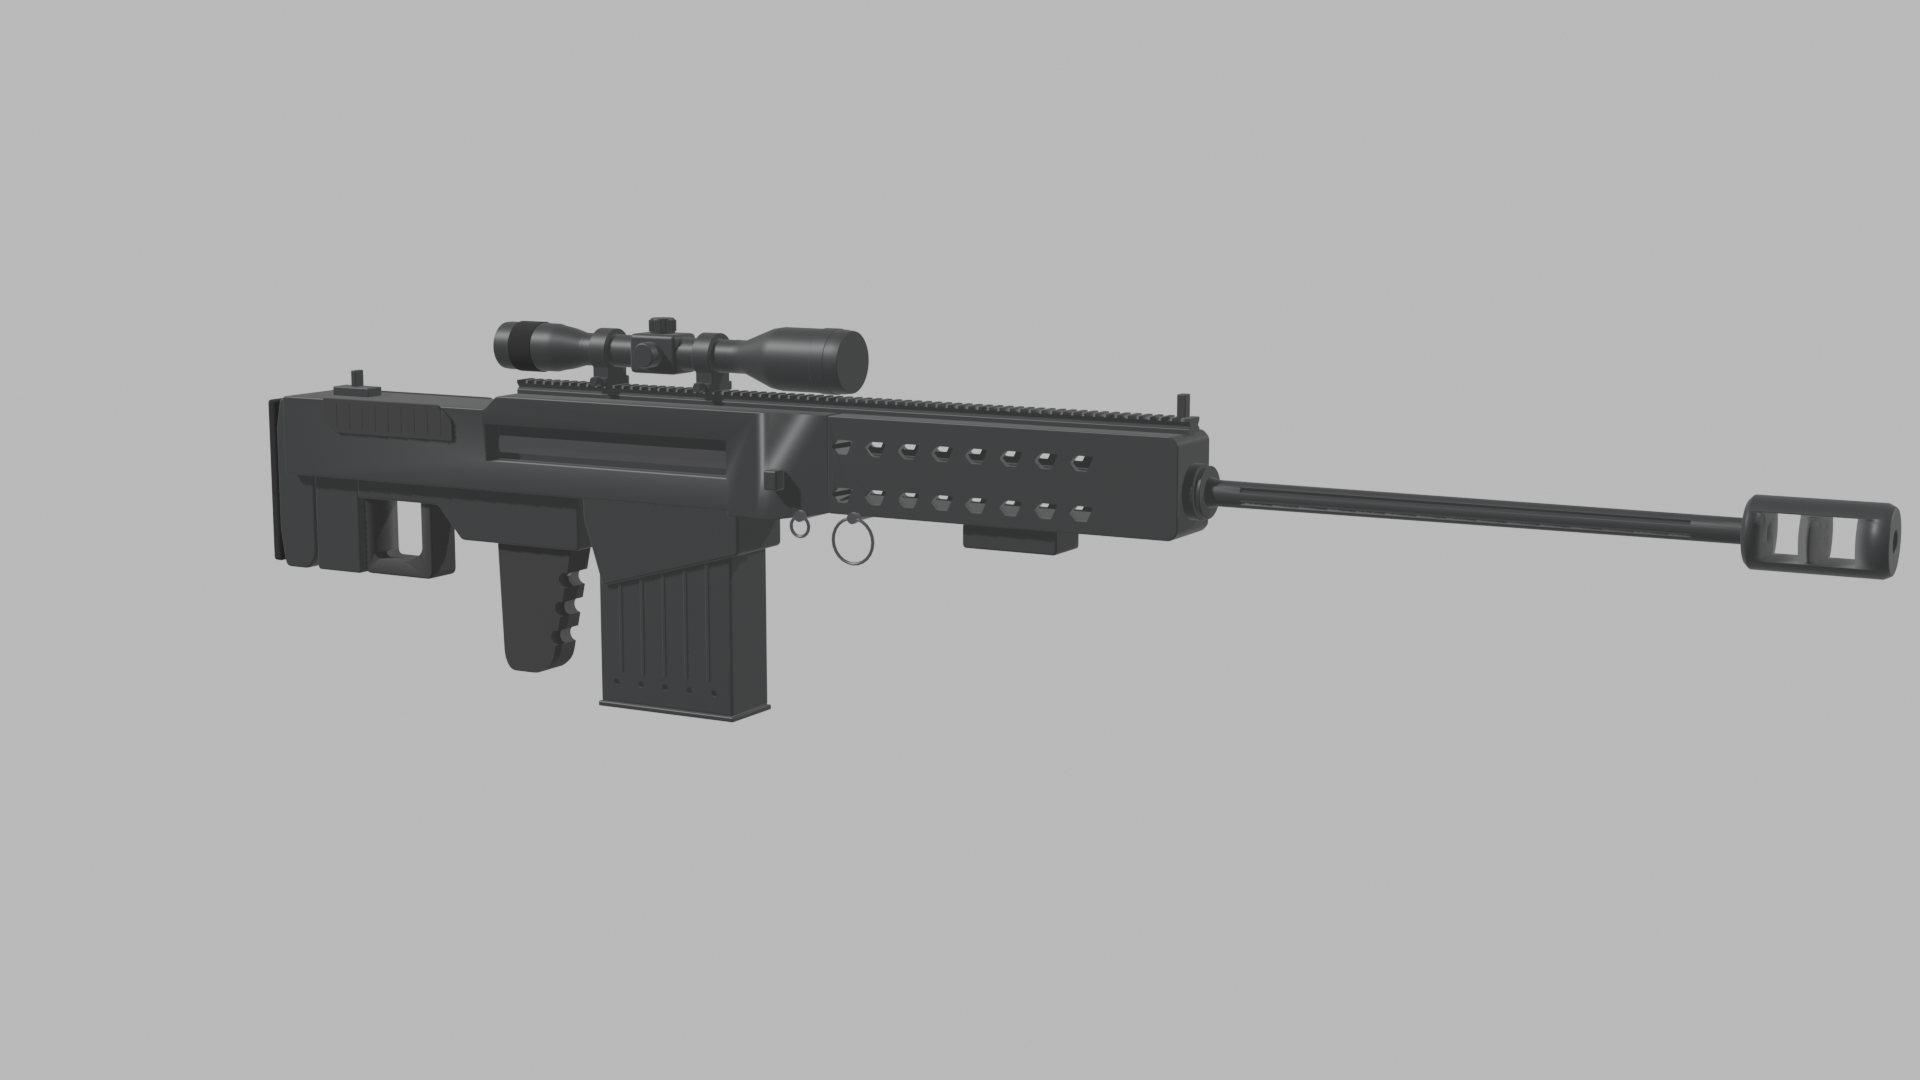
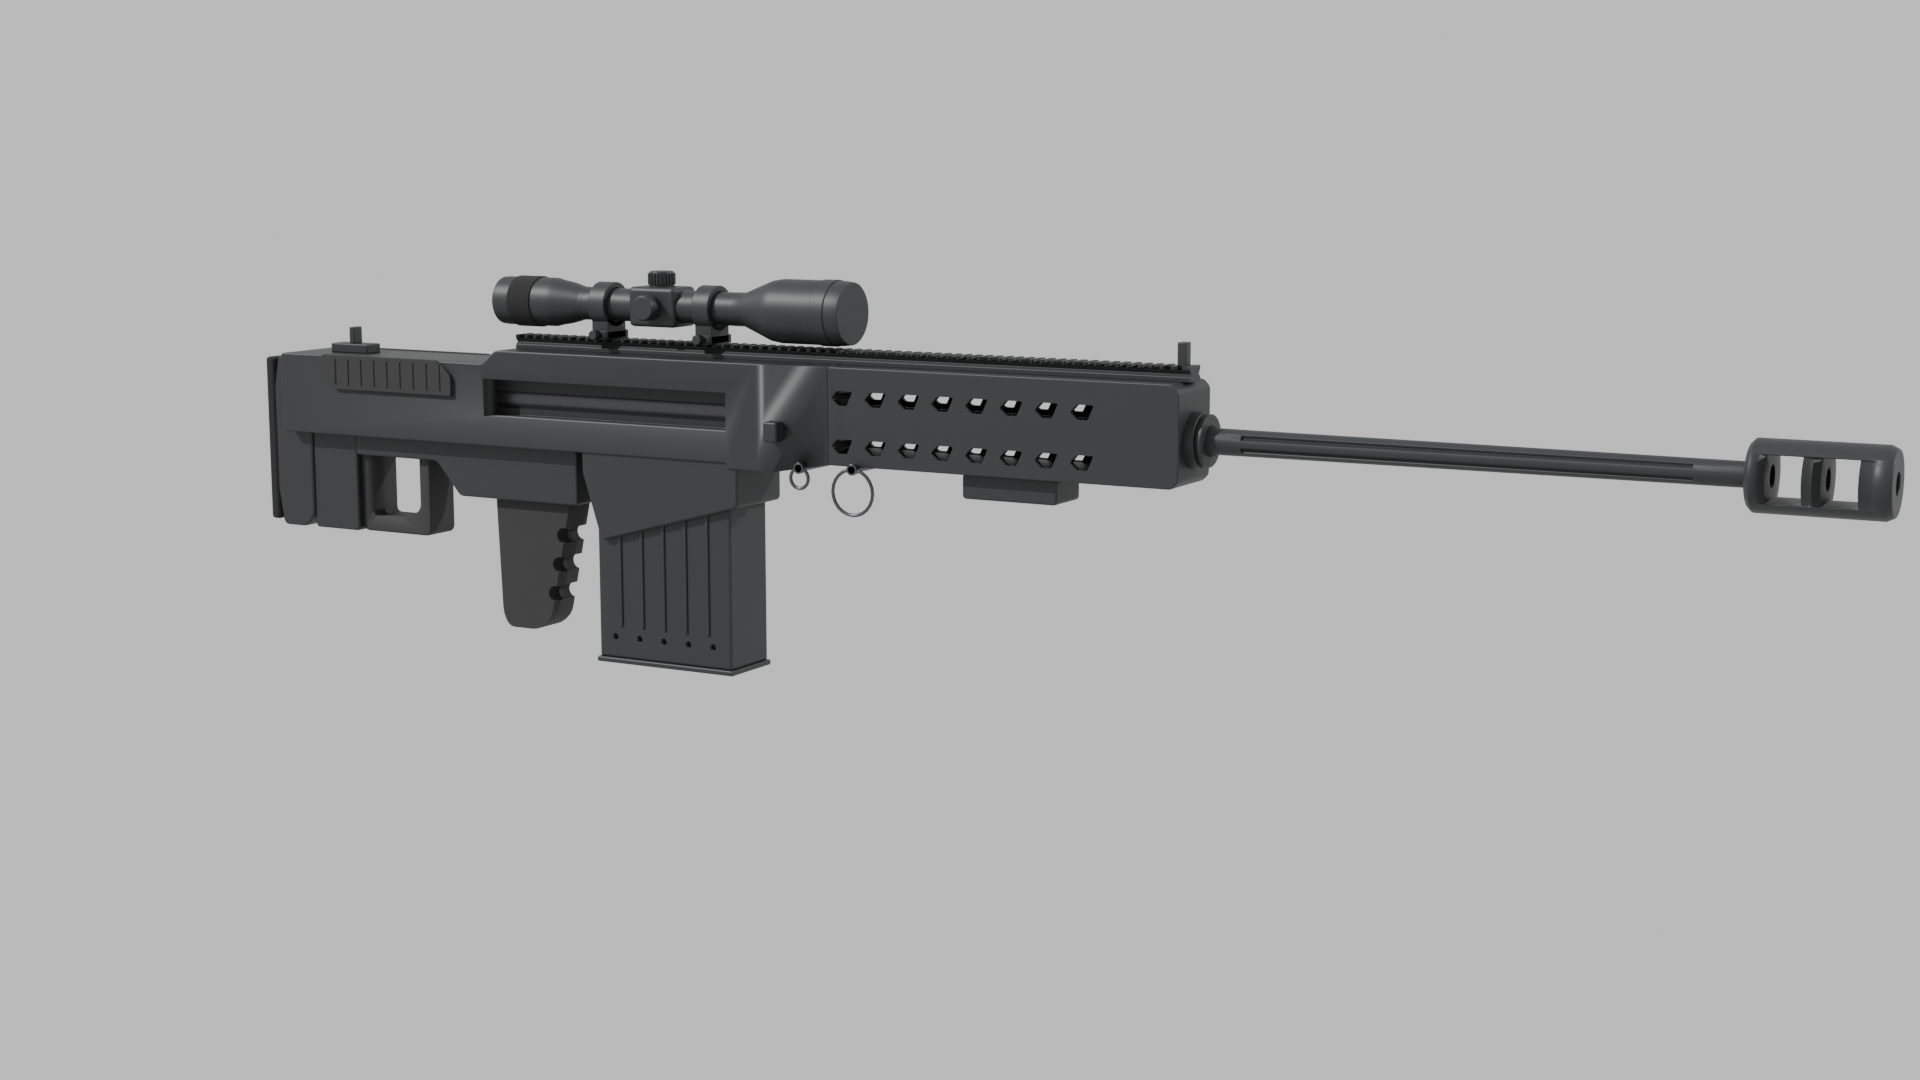
AF M107A1: SVD frame measured in game, model placed in it and split into rifle, magazine and scope; ray-traced previews

Changed region(s): [[0.125, 0.2444, 1.0, 0.6722]]

diff --git a/blender/afm107_detailed.py b/blender/afm107_detailed.py
@@ -35,14 +35,18 @@ bp = importlib.util.module_from_spec(spec)
 spec.loader.exec_module(bp)
 
 PREFIX = "M107_"
-BORE = 0.100
 P = bp.PARTS
 fx = bp.fx
-X_TRIGGER = P["trigger"][0][0]
+# The vanilla SVD's frame (measured in game, docs/M107.md): the M107A1's trigger pivot sits on the
+# SVD's trigger_axis, so the SVD's hand animations close on its grip.
+SVD_TRIGGER = (-0.0819, 0.0645)                     # working y, z of the SVD's trigger_axis
+X_TRIGGER = (P["trigger"][0][0] + P["trigger"][1][0]) / 2     # blueprint x of the trigger pivot (its top)
+Z_TRIGGER = P["trigger"][0][1]                       # blueprint z of the pivot (mm below the bore)
+BORE = SVD_TRIGGER[1] - Z_TRIGGER / 1000.0           # 0.1525: 52 mm above the SVD's bore
 
 
 def Y(x_mm):
-    return (x_mm - X_TRIGGER) / 1000.0
+    return (x_mm - X_TRIGGER) / 1000.0 + SVD_TRIGGER[0]
 
 
 def Zm(z_mm):
@@ -86,19 +90,50 @@ def ring(bm, centre, radius, tube, seg=24, sides=8):
             bm.faces.new((a[j], a[(j + 1) % sides], b[(j + 1) % sides], b[j]))
 
 
+MAG_PREFIX, SCOPE_PREFIX = "M107M_", "M107S_"
+# The magazine model's origin is the SVD's magazine proxy point, so the SVD's reload animations hold
+# it where they expect; the scope model's origin is the middle of its tube.
+MAG_PROXY = (0.0, 0.0542, 0.0409)
+
+
+def materials():
+    return {"steel": d.material("Cerakote", (0.028, 0.029, 0.030), rough=0.50, metal=0.25, bump=0.02, bump_scale=900),
+            "bare": d.material("Steel", (0.10, 0.10, 0.105), rough=0.30, metal=0.9),
+            "dark": d.material("Inside", (0.006, 0.006, 0.007), rough=0.7),
+            "rubber": d.material("Rubber", (0.010, 0.010, 0.010), rough=0.92),
+            "poly": d.material("Polymer", (0.020, 0.020, 0.021), rough=0.75, bump=0.06, bump_scale=1400)}
+
+
+def smooth(cols):
+    """Clean shading on the big faces left by the Boolean cuts: area-weighted normals, edges kept sharp."""
+    for col in cols:
+        for ob in col.objects:
+            if ob.type == "MESH":
+                for face in ob.data.polygons:
+                    face.use_smooth = True
+                mod = ob.modifiers.new("WeightedNormal", "WEIGHTED_NORMAL")
+                mod.mode = "FACE_AREA"
+                mod.weight = 50
+                mod.keep_sharp = True
+
+
+def offset(col, v):
+    for ob in col.objects:
+        ob.location = (ob.location[0] - v[0], ob.location[1] - v[1], ob.location[2] - v[2])
+
+
 def build():
-    for ob in list(bpy.data.objects):
-        bpy.data.objects.remove(ob, do_unlink=True)
+    """The rifle (prefix M107_): everything but the magazine and the scope, which are models of their own."""
     d.PREFIX = PREFIX
     d.clean()
     d.CUTS = True
     body = d.collection("Body")
+    moving = d.collection("Moving")
+    memory = d.collection("Memory")
+    proxies = d.collection("Proxies")
     cutters = d.collection("Cutters")
-    steel = d.material("Cerakote", (0.028, 0.029, 0.030), rough=0.50, metal=0.25, bump=0.02, bump_scale=900)
-    bare = d.material("Steel", (0.10, 0.10, 0.105), rough=0.30, metal=0.9)
-    dark = d.material("Inside", (0.006, 0.006, 0.007), rough=0.7)
-    rubber = d.material("Rubber", (0.010, 0.010, 0.010), rough=0.92)
-    poly = d.material("Polymer", (0.020, 0.020, 0.021), rough=0.75, bump=0.06, bump_scale=1400)
+    m = materials()
+    steel, bare, dark, rubber, poly = m["steel"], m["bare"], m["dark"], m["rubber"], m["poly"]
 
     # --- Upper receiver ----------------------------------------------------------------------
     up = d.profile("UpperReceiver", body, steel, side_pts(P["upper"]), 0.076, bevel=0.0018, round=0.004,
@@ -136,7 +171,7 @@ def build():
     c = d.box("WindowCutter", cutters, None, (0.030, (Y(wx0) + Y(wx1)) / 2, (Zm(wz0) + Zm(wz1)) / 2),
               (0.030, Y(wx1) - Y(wx0), Zm(wz1) - Zm(wz0)), bevel=0, note="Ejection window, right.")
     d.cut(up, c, "Window")
-    lathe("BoltCarrier", body, bare, [(wx0 - 20, 0), (wx0 - 20, 17), (wx1 + 20, 17), (wx1 + 20, 0)], sides=24, bevel=0.0006,
+    lathe("BoltCarrier", moving, bare, [(wx0 - 20, 0), (wx0 - 20, 17), (wx1 + 20, 17), (wx1 + 20, 0)], sides=24, bevel=0.0006,
           note="Bolt carrier, seen through the window.")
     # Rail: M1913 section along the top, cross slots every 10 mm.
     rx0, rx1, rz0, rz1 = P["rail"]
@@ -166,8 +201,6 @@ def build():
     d.box("RearSightAperture", body, steel, (0.0, Y(78), Zm(52)), (0.012, 0.006, 0.016), bevel=0.0008)
     d.box("FrontSight", body, steel, (0.0, Y(fx(880.0)), Zm(70)), (0.010, 0.008, 0.020), bevel=0.0008,
           note="Folding front sight, raised.")
-
-    build_scope(body, steel, dark, rubber)
 
     # --- Barrel and brake -----------------------------------------------------------------------
     cx0, cx1, _, _ = P["barrel_collar"]
@@ -215,11 +248,50 @@ def build():
         xf = gx1 - 8 - (gz1 - zz) * 0.20
         d.bm_lathe(bm, [(-0.03, 0.0), (-0.03, 0.0075), (0.03, 0.0075), (0.03, 0.0)], sides=16, axis="X", c=(Y(xf + 6), Zm(zz)))
     d.cut(grip, d.make("GripGrooveCutter", bm, cutters, None, "", 0.0), "Grooves")
-    d.profile("Trigger", body, bare, side_pts(P["trigger"]), 0.006, bevel=0.0010, round=0.002)
+    d.profile("Weapon_Trigger", moving, bare, side_pts(P["trigger"]), 0.006, bevel=0.0010, round=0.002,
+              note="Trigger. Bone 'trigger'.")
     d.box("Safety", body, steel, (-0.026, Y(fx(300.0)), Zm(-55)), (0.004, 0.020, 0.008), bevel=0.0008, note="Safety, left.")
     d.box("ChargingHandle", body, steel, (0.044, Y(fx(520.0)), Zm(-10)), (0.014, 0.014, 0.018), bevel=0.0020,
           note="Charging handle, right.")
 
+    # --- Monopod, bipod, lock pins ------------------------------------------------------------------
+    # (Monopod under the stock removed, owner 2026-11-23.)
+    d.profile("BipodYoke", body, steel, side_pts(P["bipod_yoke"]), 0.044, bevel=0.0018, round=0.004)
+    # (Folded bipod legs under the barrel removed, owner 2026-11-23.)
+    bm = bmesh.new()
+    for x, z, r in (bp.MID_PIN, bp.REAR_PIN):
+        ring(bm, (0.040, Y(x), Zm(z)), r / 1000.0, 0.0016)
+        d.bm_lathe(bm, [(-0.040, 0.0), (-0.040, 0.0035), (0.042, 0.0035), (0.042, 0.0)], sides=12, axis="X", c=(Y(x), Zm(z + r)))
+        d.bm_lathe(bm, [(0.037, 0.0), (0.037, 0.0050), (0.042, 0.0050), (0.042, 0.0)], sides=12, axis="X", c=(Y(x), Zm(z + r)))
+    d.make("LockPins", bm, body, bare, "Mid and rear lock pins with their pull rings.", 0.0)
+    smooth((body, moving))
+
+    # --- Memory points (SVD names) and proxies ---------------------------------------------------
+    sx0 = fx(SCOPE_X0)
+    d.empty("Mem_Muzzle", memory, (0.0, Y(fx(1443.0)), BORE), "'usti hlavne' - muzzle (front of the brake).")
+    d.empty("Mem_BarrelEnd", memory, (0.0, Y(fx(905.0)), BORE), "'konec hlavne' - with the muzzle, the firing line.")
+    d.empty("Mem_Eye", memory, (0.0, Y(40.0), Zm(60.0)), "'eye' - iron sights, behind the rear sight.")
+    d.empty("Mem_CaseStart", memory, (0.020, Y(fx(400.0)), BORE), "'nabojnicestart' - cases leave the window...")
+    d.empty("Mem_CaseEnd", memory, (0.120, Y(fx(380.0)), BORE + 0.030), "'nabojniceend' - ...to the right.")
+    d.empty("Mem_TriggerAxis", memory, (0.0, SVD_TRIGGER[0], SVD_TRIGGER[1]), "'trigger_axis' - trigger pivot.")
+    d.empty("Mem_BoltAxis", memory, (0.0, Y(fx(400.0)), BORE), "'bolt_axis'.")
+    d.empty("Mem_MagAxis", memory, (0.0, 0.0965, 0.1052), "'magazine_axis' - the SVD's, for its reload.")
+    d.empty("Mem_MagAxis2", memory, (0.0, 0.0902, 0.0319), "'magazine_axis2'.")
+    d.empty("Proxy_Magazine", proxies, MAG_PROXY, "magazine proxy: the AF M107A1 magazine's origin.", kind="ARROWS",
+            size=0.03)
+    d.empty("Proxy_Scope", proxies, SCOPE_CENTRE(), "scope proxy (slot weaponOpticsAFM107): the scope's origin.",
+            kind="ARROWS", size=0.03)
+
+
+def build_magazine():
+    """The magazine (prefix M107M_), built round the SVD's magazine proxy point."""
+    d.PREFIX = MAG_PREFIX
+    d.clean()
+    d.CUTS = True
+    body = d.collection("Body")
+    d.collection("Moving")
+    cutters = d.collection("Cutters")
+    steel = materials()["steel"]
     # --- Magazine ---------------------------------------------------------------------------------
     mx0, mx1, mz0, mz1 = P["mag"]
     mag = d.box("Magazine", body, steel, (0.0, (Y(mx0) + Y(mx1)) / 2, (Zm(mz0) + Zm(mz1)) / 2),
@@ -237,25 +309,26 @@ def build():
     d.box("MagFloorPlate", body, steel, (0.0, (Y(mx0) + Y(mx1)) / 2, Zm(mz0) - 0.002), (0.064, Y(mx1) - Y(mx0) + 0.004, 0.005),
           bevel=0.0012)
 
-    # --- Monopod, bipod, lock pins ------------------------------------------------------------------
-    # (Monopod under the stock removed, owner 2026-11-23.)
-    d.profile("BipodYoke", body, steel, side_pts(P["bipod_yoke"]), 0.044, bevel=0.0018, round=0.004)
-    # (Folded bipod legs under the barrel removed, owner 2026-11-23.)
-    bm = bmesh.new()
-    for x, z, r in (bp.MID_PIN, bp.REAR_PIN):
-        ring(bm, (0.040, Y(x), Zm(z)), r / 1000.0, 0.0016)
-        d.bm_lathe(bm, [(-0.040, 0.0), (-0.040, 0.0035), (0.042, 0.0035), (0.042, 0.0)], sides=12, axis="X", c=(Y(x), Zm(z + r)))
-        d.bm_lathe(bm, [(0.037, 0.0), (0.037, 0.0050), (0.042, 0.0050), (0.042, 0.0)], sides=12, axis="X", c=(Y(x), Zm(z + r)))
-    d.make("LockPins", bm, body, bare, "Mid and rear lock pins with their pull rings.", 0.0)
-    # Clean shading on the big faces left by the Boolean cuts: area-weighted normals, edges kept sharp.
-    for ob in body.objects:
-        if ob.type == "MESH":
-            for poly in ob.data.polygons:
-                poly.use_smooth = True
-            mod = ob.modifiers.new("WeightedNormal", "WEIGHTED_NORMAL")
-            mod.mode = "FACE_AREA"
-            mod.weight = 50
-            mod.keep_sharp = True
+    smooth((body,))
+    offset(body, MAG_PROXY)
+
+
+def SCOPE_CENTRE():
+    return (0.0, Y(fx(SCOPE_X0 + 190.0)), Zm(SCOPE_AXIS))
+
+
+def build_scope_model():
+    """The built-in scope (prefix M107S_), built round the middle of its tube."""
+    d.PREFIX = SCOPE_PREFIX
+    d.clean()
+    d.CUTS = True
+    body = d.collection("Body")
+    d.collection("Moving")
+    d.collection("Memory")
+    m = materials()
+    build_scope(body, m["steel"], m["dark"], m["rubber"])
+    smooth((body,))
+    offset(body, SCOPE_CENTRE())
 
 
 # --- Built-in scope (owner: "a built in hunting scope, 6x - 12x, red crosshair, meter counter") ----
@@ -319,8 +392,12 @@ def build_scope(body, steel, dark, rubber):
 
 def render(out):
     sc = bpy.context.scene
-    names = {e.identifier for e in bpy.types.RenderSettings.bl_rna.properties["engine"].enum_items}
-    sc.render.engine = "BLENDER_EEVEE_NEXT" if "BLENDER_EEVEE_NEXT" in names else "BLENDER_EEVEE"
+    # Ray traced (Cycles), owner 2026-11-23: real reflections, shadows and occlusion in the previews.
+    sc.render.engine = "CYCLES"
+    sc.cycles.device = "CPU"
+    sc.cycles.samples = 96
+    sc.cycles.use_denoising = True
+    sc.cycles.max_bounces = 6
     sc.render.resolution_x, sc.render.resolution_y = 1920, 1080
     world = bpy.data.worlds.new("M107_World")
     world.use_nodes = True
@@ -335,7 +412,8 @@ def render(out):
     cam = bpy.data.objects.new("M107_Cam", bpy.data.cameras.new("M107_Cam"))
     sc.collection.objects.link(cam)
     sc.camera = cam
-    obs = [o for o in bpy.data.objects if o.type == "MESH" and o.name.startswith(PREFIX) and not o.hide_render]
+    obs = [o for o in bpy.data.objects if o.type == "MESH" and o.name.startswith(("M107_", "M107M_", "M107S_"))
+           and not o.hide_render and not any(c.name.endswith("Cutters") for c in o.users_collection)]
     lo = Vector((1e9,) * 3)
     hi = Vector((-1e9,) * 3)
     for o in obs:
@@ -365,8 +443,26 @@ def render(out):
         print("RENDERED", sc.render.filepath)
 
 
+def build_all():
+    for ob in list(bpy.data.objects):            # the factory scene's cube, camera and light
+        bpy.data.objects.remove(ob, do_unlink=True)
+    build()
+    build_magazine()
+    build_scope_model()
+
+
+def assemble(on=True):
+    """Previews: the magazine and scope moved onto their proxies (on=False puts them back)."""
+    k = 1 if on else -1
+    for prefix, at in ((MAG_PREFIX, MAG_PROXY), (SCOPE_PREFIX, SCOPE_CENTRE())):
+        col = bpy.data.collections.get(prefix + "Body")
+        for ob in col.objects:
+            ob.location = tuple(ob.location[i] + k * at[i] for i in range(3))
+
+
 if __name__ == "__main__":
     args = sys.argv[sys.argv.index("--") + 1:] if "--" in sys.argv else []
-    build()
+    build_all()
     bpy.ops.wm.save_as_mainfile(filepath=os.path.join(HERE, "afm107_detailed.blend"))
+    assemble(True)
     render(args[0] if args else os.path.join(os.path.dirname(HERE), "docs", "img"))

diff --git a/test/AFSVDProbe.ChernarusPlus/init.c b/test/AFSVDProbe.ChernarusPlus/init.c
@@ -1,0 +1,109 @@
+// Probe mission: reads the vanilla SVD's frame from the running game, for the AF M107A1 (which
+// inherits the SVD). Uses only the public script API on a spawned SVD; nothing is extracted from
+// the game files. Logs, in the SVD's model space (metres):
+//   - its memory points (muzzle, barrel end, eye, case ejection);
+//   - where its magazine and PSO-1 scope sit (position and axes of each attachment);
+//   - where the player's hands hold it, at rest and raised (aimed).
+// Then quits. Start it with: test\run_test.ps1 -Mission AFSVDProbe.ChernarusPlus
+
+PlayerBase g_P;
+Weapon_Base g_W;
+
+string V(vector v)
+{
+	return string.Format("%1 %2 %3", v[0].ToString(), v[1].ToString(), v[2].ToString());
+}
+
+void LogFrame(string tag)
+{
+	if (!g_W)
+	{
+		Print("[AFProbe] FAILED no weapon");
+		return;
+	}
+	TStringArray mem = {"usti hlavne", "konec hlavne", "eye", "nabojnicestart", "nabojniceend", "bolt_axis", "trigger_axis", "magazine_axis", "magazine_axis2"};
+	foreach (string m : mem)
+	{
+		if (g_W.MemoryPointExists(m))
+			Print("[AFProbe] " + tag + " mem " + m + " = " + V(g_W.GetMemoryPointPos(m)));
+		else
+			Print("[AFProbe] " + tag + " mem " + m + " MISSING");
+	}
+	for (int i = 0; i < g_W.GetInventory().AttachmentCount(); i++)
+	{
+		EntityAI a = g_W.GetInventory().GetAttachmentFromIndex(i);
+		vector o = g_W.WorldToModel(a.GetPosition());
+		vector fwd = g_W.WorldToModel(a.ModelToWorld("0 0 1")) - o;
+		vector up = g_W.WorldToModel(a.ModelToWorld("0 1 0")) - o;
+		Print("[AFProbe] " + tag + " attachment " + a.GetType() + " at " + V(o) + " dir " + V(fwd) + " up " + V(up));
+	}
+	if (g_P)
+	{
+		TStringArray hb = {"RightHand", "LeftHand", "RightHandIndex1", "LeftHandIndex1", "Head", "Spine3"};
+		foreach (string h : hb)
+		{
+			int hi = g_P.GetBoneIndexByName(h);
+			if (hi >= 0)
+				Print("[AFProbe] " + tag + " hand " + h + " = " + V(g_W.WorldToModel(g_P.GetBonePositionWS(hi))));
+		}
+	}
+	vector box[2];
+	g_W.GetCollisionBox(box);
+	Print("[AFProbe] " + tag + " collision box " + V(box[0]) + " .. " + V(box[1]));
+}
+
+void main()
+{
+	GetGame().GetWorld().SetDate(2026, 6, 15, 12, 0);
+	vector stand = "4660 0 10330";
+	stand[1] = GetGame().SurfaceY(stand[0], stand[2]);
+	g_P = PlayerBase.Cast(GetGame().CreatePlayer(NULL, "SurvivorM_Mirek", stand, 0, "NONE"));
+	GetGame().SelectPlayer(NULL, g_P);
+	g_P.GetInventory().CreateInInventory("TShirt_Green");
+	g_W = Weapon_Base.Cast(g_P.GetHumanInventory().CreateInHands("SVD"));
+	if (g_W)
+	{
+		g_W.SpawnAmmo("Mag_SVD_10Rnd", WeaponWithAmmoFlags.CHAMBER | WeaponWithAmmoFlags.MAX_CAPACITY_MAG);
+		g_W.GetInventory().CreateAttachment("PSO1Optic");
+	}
+	Print("[AFProbe] spawned SVD " + (g_W != null).ToString());
+}
+
+class CustomMission: MissionGameplay
+{
+	override void OnInit()
+	{
+		super.OnInit();
+		GetGame().GetCallQueue(CALL_CATEGORY_SYSTEM).CallLater(this.AFRest, 15000, false);
+		GetGame().GetCallQueue(CALL_CATEGORY_SYSTEM).CallLater(this.AFRaise, 18000, false);
+		GetGame().GetCallQueue(CALL_CATEGORY_SYSTEM).CallLater(this.AFRaised, 22000, false);
+		GetGame().GetCallQueue(CALL_CATEGORY_SYSTEM).CallLater(this.AFQuit, 24000, false);
+	}
+
+	void AFRest()
+	{
+		LogFrame("rest");
+	}
+
+	void AFRaise()
+	{
+		g_P.GetInputController().OverrideRaise(HumanInputControllerOverrideType.ENABLED, true);
+		Print("[AFProbe] raising");
+	}
+
+	void AFRaised()
+	{
+		LogFrame("raised");
+	}
+
+	void AFQuit()
+	{
+		Print("[AFProbe] done");
+		GetGame().RequestExit(0);
+	}
+};
+
+Mission CreateCustomMission(string path)
+{
+	return new CustomMission();
+}

diff --git a/docs/M107.md b/docs/M107.md
@@ -57,3 +57,26 @@ Construction, from the manual's parts list and assembly steps:
   - specular and gloss spread checked against a vanilla rifle;
   - edge padding;
   - an in-game lighting series.
+
+## The vanilla SVD's frame (measured in game, 2026-11-23)
+
+The M107A1 inherits the SVD's animations, so it is built in the SVD's frame. Read by the probe mission `test/AFSVDProbe.ChernarusPlus` through the public script API (memory points, attachment transforms, the player's hand bones); the bone list comes from the model's skeleton header. DayZ model space: -x forward, +y up, +z left/right. The working frame of the Blender scripts is y = -x_dayz, z = y_dayz, x = z_dayz.
+
+| Point | DayZ model space (m) | Working frame (y forward, z up) |
+|---|---|---|
+| `usti hlavne` (muzzle) | -0.8030, 0.1005, 0 | y 0.8030, z 0.1005 |
+| `konec hlavne` (barrel end) | -0.1256, 0.1005, 0 | y 0.1256, z 0.1005 |
+| `eye` (iron sights) | 0.2739, 0.1390, 0 | y -0.2739, z 0.1390 |
+| `trigger_axis` | 0.0819, 0.0645, 0.0140 | y -0.0819, z 0.0645 |
+| `bolt_axis` | -0.0578, 0.0964, -0.0105 | y 0.0578, z 0.0964 |
+| `magazine_axis` / `magazine_axis2` | -0.0965, 0.1052 / -0.0902, 0.0319 | y 0.0965 z 0.1052 / y 0.0902 z 0.0319 |
+| `nabojnicestart` / `nabojniceend` | -0.0414, 0.1094, 0.0043 / 0.0410, 0.1178, 0.1073 | |
+| Magazine attachment origin | -0.0542, 0.0409, -0.0005; upright | y 0.0542, z 0.0409 |
+| PSO-1 attachment origin | 0.0248, 0.1064, -0.0047 | |
+| Right hand (index finger base) | 0.1309, 0.0477, 0.0281 | y -0.1309, z 0.0477 |
+| Left hand | -0.1128, 0.0483, -0.0586 | y 0.1128, z 0.0483 |
+| Collision box | -0.805, -0.017, -0.031 .. 0.386, 0.152, 0.010 | |
+
+Skeleton (bone, parent): magazine, trigger, bolt, firemode, bullet, mag_release, none with a parent. Sections: camo, hide_barrel. Proxies: magazine_svd, magazine_akm_30rnd, optic_pso1, suppressor_545, bottle_suppressor, ghillie_wrap (3).
+
+**Placement of the M107A1 in this frame.** Its trigger pivot goes on the SVD's `trigger_axis`, so the right hand closes on its grip. Its lower receiver is much deeper than the SVD's (the trigger pivot is 88 mm below its bore, against 36 mm on the SVD), so the M107A1's bore sits at z 0.1525, 52 mm above the SVD's. The muzzle and eye points are its own. The left hand, 195 mm ahead of the trigger in the SVD animations, lands on the front of the M107A1's magazine: the rifle is held by its magazine, a known compromise of using the SVD's handling for a much larger rifle. The magazine proxy stays at the SVD's position, and the M107A1's own magazine is built round that point so that it sits in its well.
